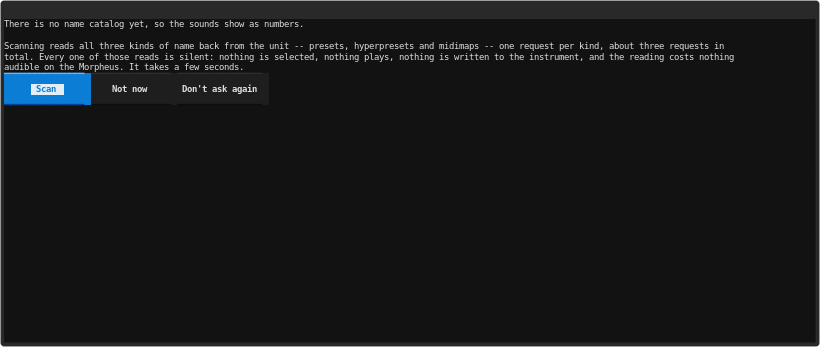
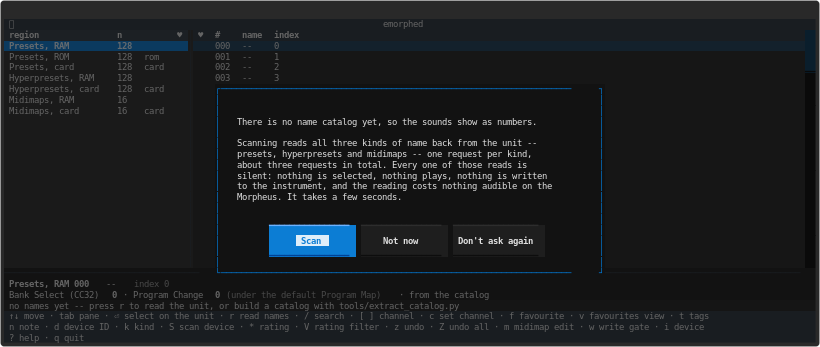
scan: the offer frames itself and shows the cursor -- the blue marks the default answer

diff --git a/tools/capture_screenshots.py b/tools/capture_screenshots.py
@@ -28,7 +28,6 @@ import html
 import re
 import sys
 import tempfile
-import textwrap
 from pathlib import Path
 from typing import Any
 
@@ -253,22 +252,38 @@ async def shot_scan_offer(app: Any, pilot: Any) -> str:
     await wait_for_screen(app, pilot, ScanOfferScreen)
     svg = await capture(app, pilot, "scan-offer")
     rendered = screen_text(svg)
-    # Guard against a frame that clips the offer's last word on the
-    # right edge: every wrapped offer line must appear verbatim, and no
-    # rendered line may reach the frame's right edge.
-    for raw in SCAN_OFFER.splitlines():
-        if not raw.strip():
-            continue
-        for line in textwrap.wrap(raw, SCAN_OFFER_SIZE[0]):
-            if line not in rendered:
-                raise AssertionError(
-                    f"scan-offer: wrapped line not visible in full: {line!r}"
-                )
-    longest = max((len(line) for line in rendered.splitlines()), default=0)
-    if not longest < SCAN_OFFER_SIZE[0]:
+    # Every WORD of the offer must be on screen, whole. The dialog overlays
+    # the browser, so the SVG's text carries the pane borders between the
+    # dialog's lines and Textual re-wraps to the dialog's own width: neither
+    # a whole-text nor a line-by-line compare can work here. A word that was
+    # clipped at the edge would come through partial (the bug this guard
+    # exists for: "one request per k"), so whole-word presence is the test.
+    box = (
+        "\u2502\u2500\u250c\u2510\u2514\u2518"
+        "\u251c\u2524\u252c\u2534\u253c"
+        "\u256d\u256e\u2570\u256f\u2576\u2574"
+    )
+    plain = "".join(" " if ch in box else ch for ch in rendered)
+    rendered_words = set(" ".join(plain.split()).split())
+    missing = [
+        word
+        for word in " ".join(SCAN_OFFER.split()).split()
+        if word not in rendered_words
+    ]
+    if missing:
         raise AssertionError(
-            f"scan-offer: longest rendered line {longest} does not fit frame "
-            f"width {SCAN_OFFER_SIZE[0]}"
+            f"scan-offer: {len(missing)} word(s) of the offer are not on "
+            f"screen, whole: {missing[:6]}"
+        )
+    # What must fit is the DIALOG, not the screen: the offer is a modal over
+    # the browser now, and the backdrop legitimately fills the frame. The
+    # dialog's inner width is its CSS (width 72, padding 1 2, solid border).
+    dialog_inner = 72 - 4 - 2
+    longest = max((len(line) for line in SCAN_OFFER.splitlines()), default=0)
+    if longest > dialog_inner:
+        raise AssertionError(
+            f"scan-offer: the offer's longest line is {longest} characters, "
+            f"wider than the dialog's {dialog_inner} -- it would re-wrap"
         )
     return svg
 

diff --git a/emorphed/scan.py b/emorphed/scan.py
@@ -20,13 +20,14 @@ __all__ = ["SCAN_OFFER", "ScanOffer", "ScanOfferScreen", "ScanScreen"]
 ScanOffer = str
 
 SCAN_OFFER = (
-    "There is no name catalog yet, so the sounds show as numbers.\n\n"
-    "Scanning reads all three kinds of name back from the unit -- "
-    "presets, hyperpresets and midimaps -- one request per kind, about "
-    "three requests in total. Every one of those reads is silent: "
-    "nothing is selected, nothing plays, nothing is written to the "
-    "instrument, and the reading costs nothing audible on the Morpheus. "
-    "It takes a few seconds."
+    "There is no name catalog yet, so the sounds show as numbers.\n"
+    "\n"
+    "Scanning reads all three kinds of name back from the unit --\n"
+    "presets, hyperpresets and midimaps -- one request per kind,\n"
+    "about three requests in total. Every one of those reads is\n"
+    "silent: nothing is selected, nothing plays, nothing is written\n"
+    "to the instrument, and the reading costs nothing audible on the\n"
+    "Morpheus. It takes a few seconds."
 )
 
 
@@ -47,6 +48,37 @@ class ScanOfferScreen(ModalScreen[ScanOffer]):
         ("right", "next_button", "Next"),
         ("down", "next_button", "Next"),
     ]
+
+    #: p2ked's frame, because this screen had none: without a dialog border
+    #: and width the only visible "highlight" was the primary Button's blue
+    #: -- which marks the *default* answer and never moves, so the cursor
+    #: was invisible. The focus rule below is the cue that does move.
+    DEFAULT_CSS = """
+    ScanOfferScreen {
+        align: center middle;
+    }
+    #scan-offer {
+        width: 72;
+        height: auto;
+        border: solid $primary;
+        padding: 1 2;
+    }
+    #scan-offer-prompt {
+        height: auto;
+        padding: 1;
+    }
+    #scan-offer-buttons {
+        height: auto;
+        align: center middle;
+        padding-top: 1;
+    }
+    #scan-offer-buttons Button {
+        margin: 0 1;
+    }
+    Button:focus {
+        border: heavy $accent;
+    }
+    """
 
     def __init__(self, prompt: str = SCAN_OFFER) -> None:
         super().__init__()

diff --git a/tests/test_scan.py b/tests/test_scan.py
@@ -107,6 +107,30 @@ class TestOfferScreens:
         # scan -> later -> never, then wraps to the first, then back.
         assert seen == ["scan", "later", "never", "scan", "later", "scan"]
 
+    async def test_the_focus_cue_follows_the_selection(self) -> None:
+        """The blue is the *default answer* marker and never moves; the
+        cursor is the focus cue, and it must be on whichever button is
+        selected (the report: only the blue frame was ever visible).
+        """
+
+        class H(App[None]):
+            def on_mount(self) -> None:
+                self.push_screen(ScanOfferScreen())
+
+        app = H()
+        async with app.run_test() as pilot:
+            screen = app.screen
+            assert isinstance(screen, ScanOfferScreen)
+            scan = screen.query_one("#scan")
+            later = screen.query_one("#later")
+            assert scan.has_pseudo_class("focus"), "the first answer"
+            assert not later.has_pseudo_class("focus")
+            await pilot.press("right")
+            assert later.has_pseudo_class("focus"), "the cue did not move"
+            assert not scan.has_pseudo_class("focus"), (
+                "the cue stayed on the previous answer"
+            )
+
     async def test_enter_presses_the_focused_answer(self) -> None:
         """Moving focus is only useful if Enter then answers with it."""
         results: list[str] = []
@@ -294,3 +318,15 @@ class TestFlow:
                     break
                 await pilot.pause()
             assert not app._busy
+
+
+async def test_the_offer_frames_itself_and_shows_where_the_cursor_is() -> None:
+    """The dialog had no CSS at all, so the only visible highlight was the
+    primary button's blue -- and `variant="primary"` marks the default
+    answer, which never moves. The frame is p2ked's; the focus cue is the
+    thing that follows the cursor.
+    """
+    css = ScanOfferScreen.DEFAULT_CSS
+    assert "border: solid $primary" in css, "the dialog is not framed"
+    assert "width: 72" in css, "p2ked's width"
+    assert "Button:focus" in css, "nothing shows which answer is selected"
